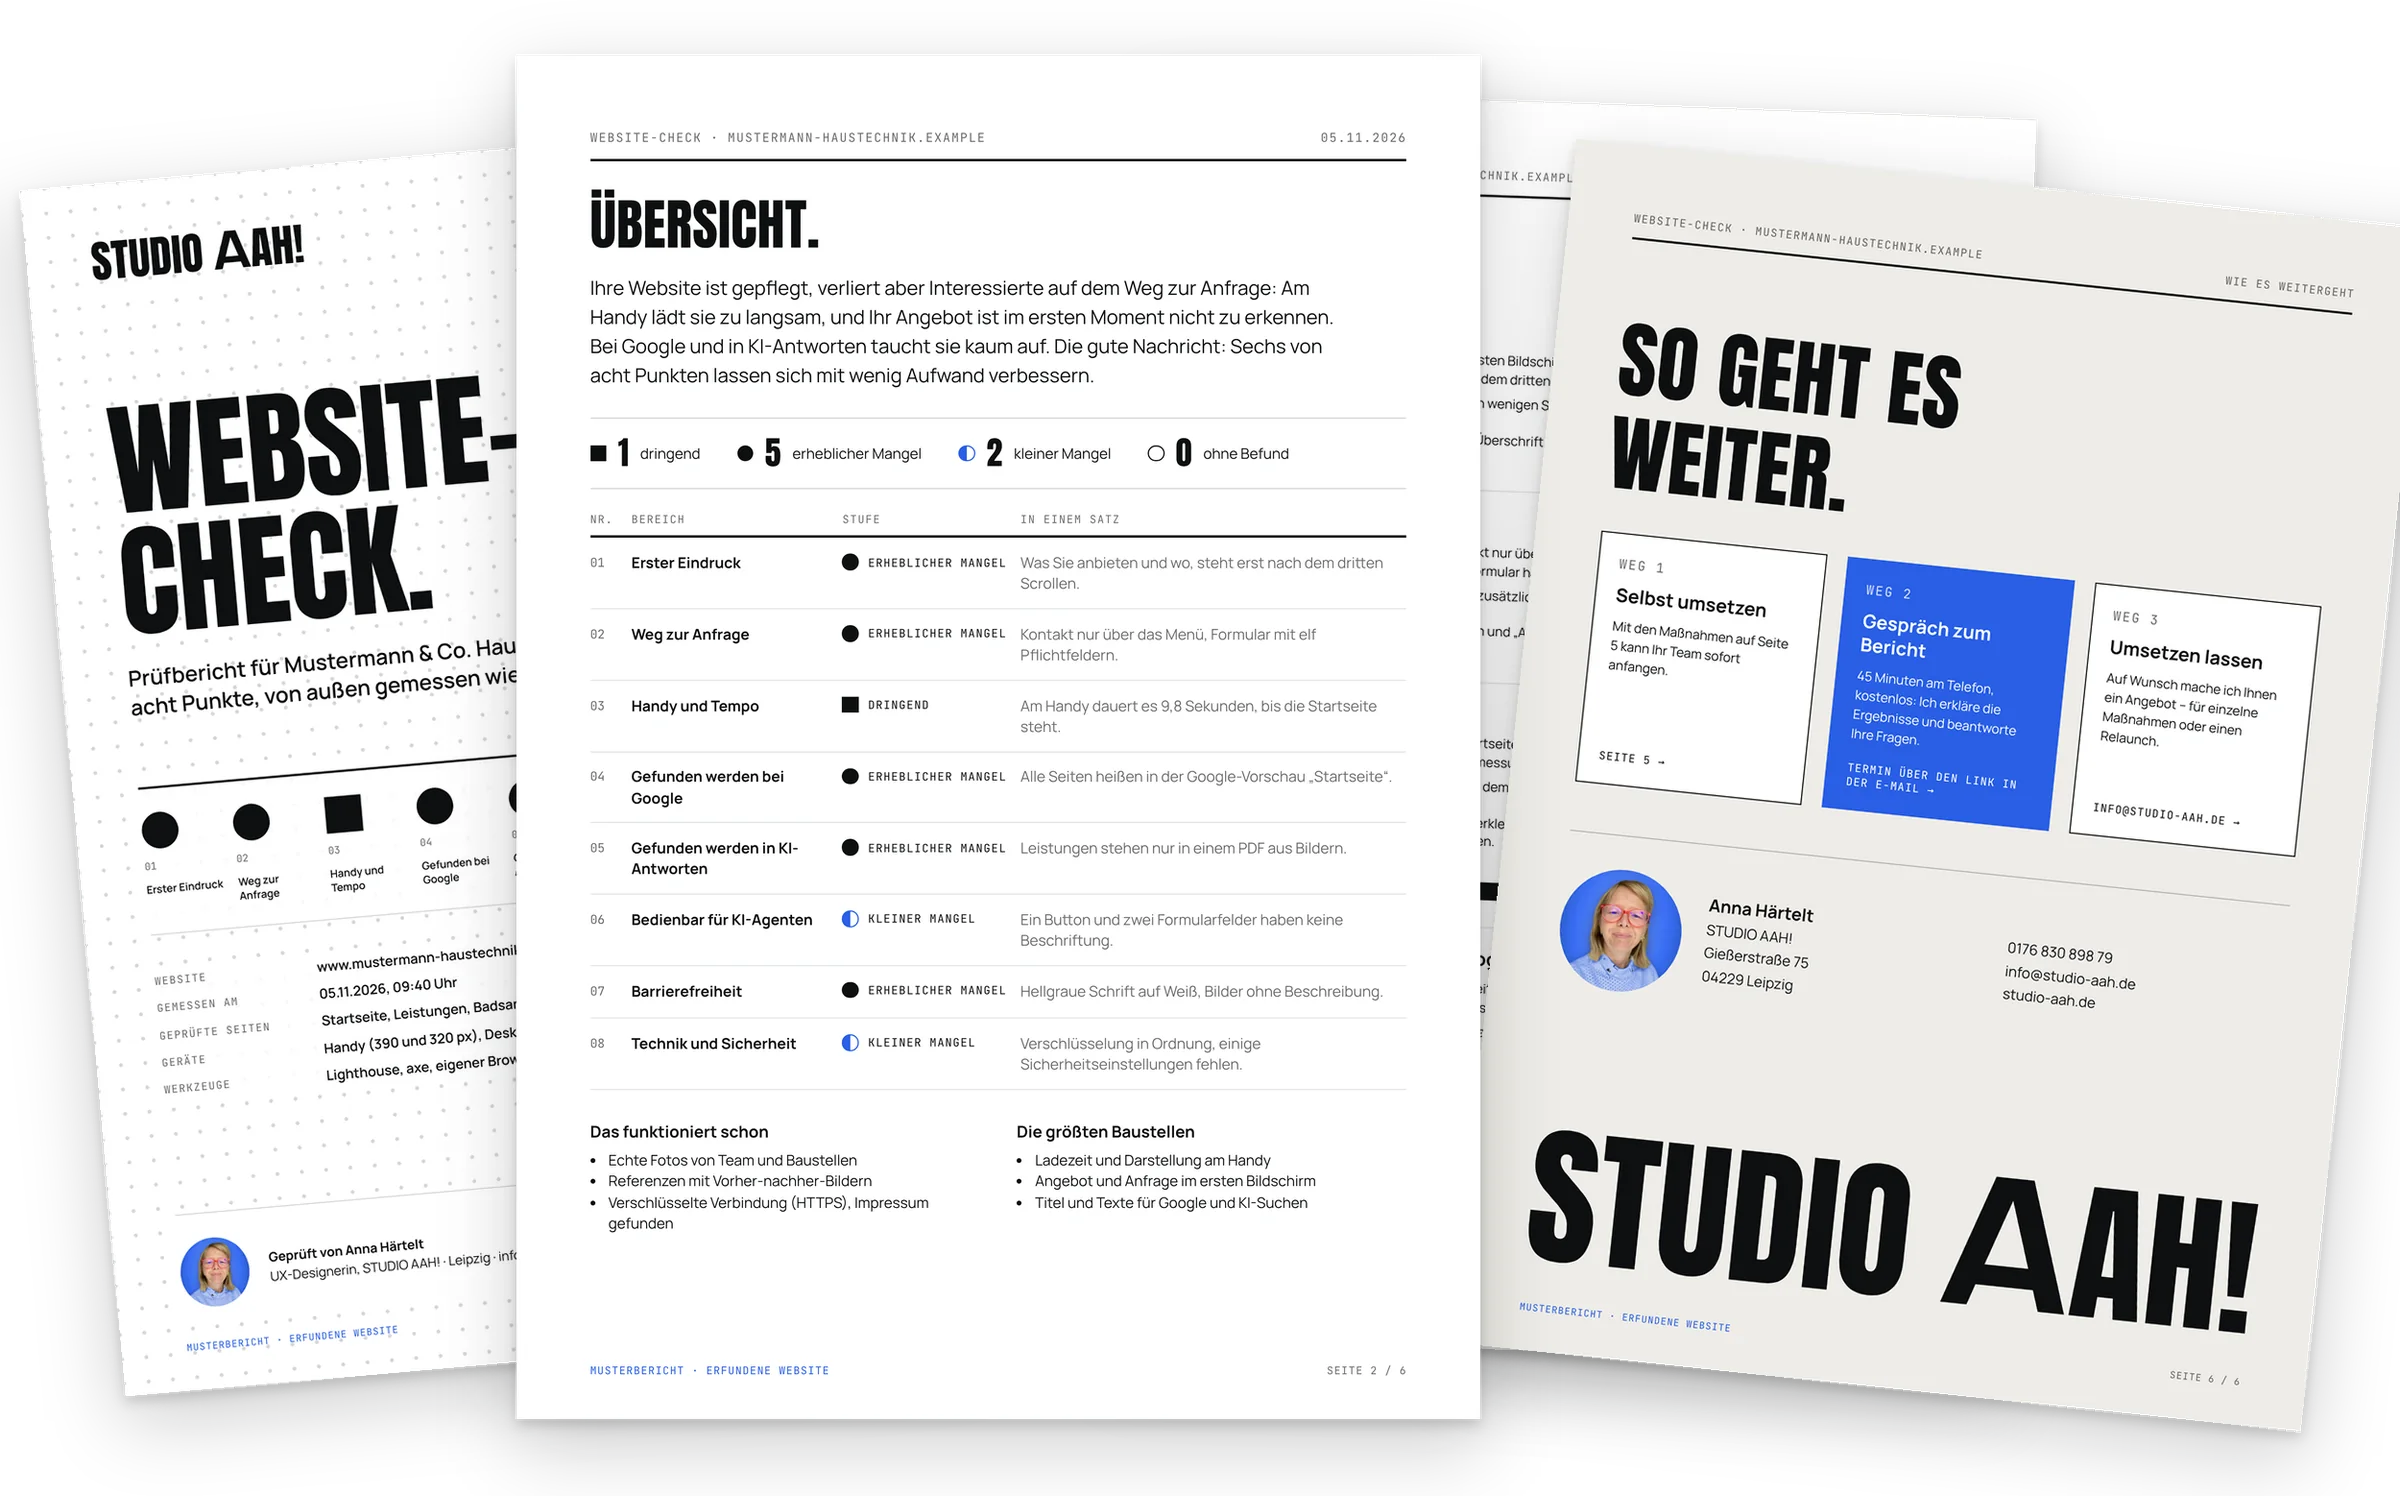
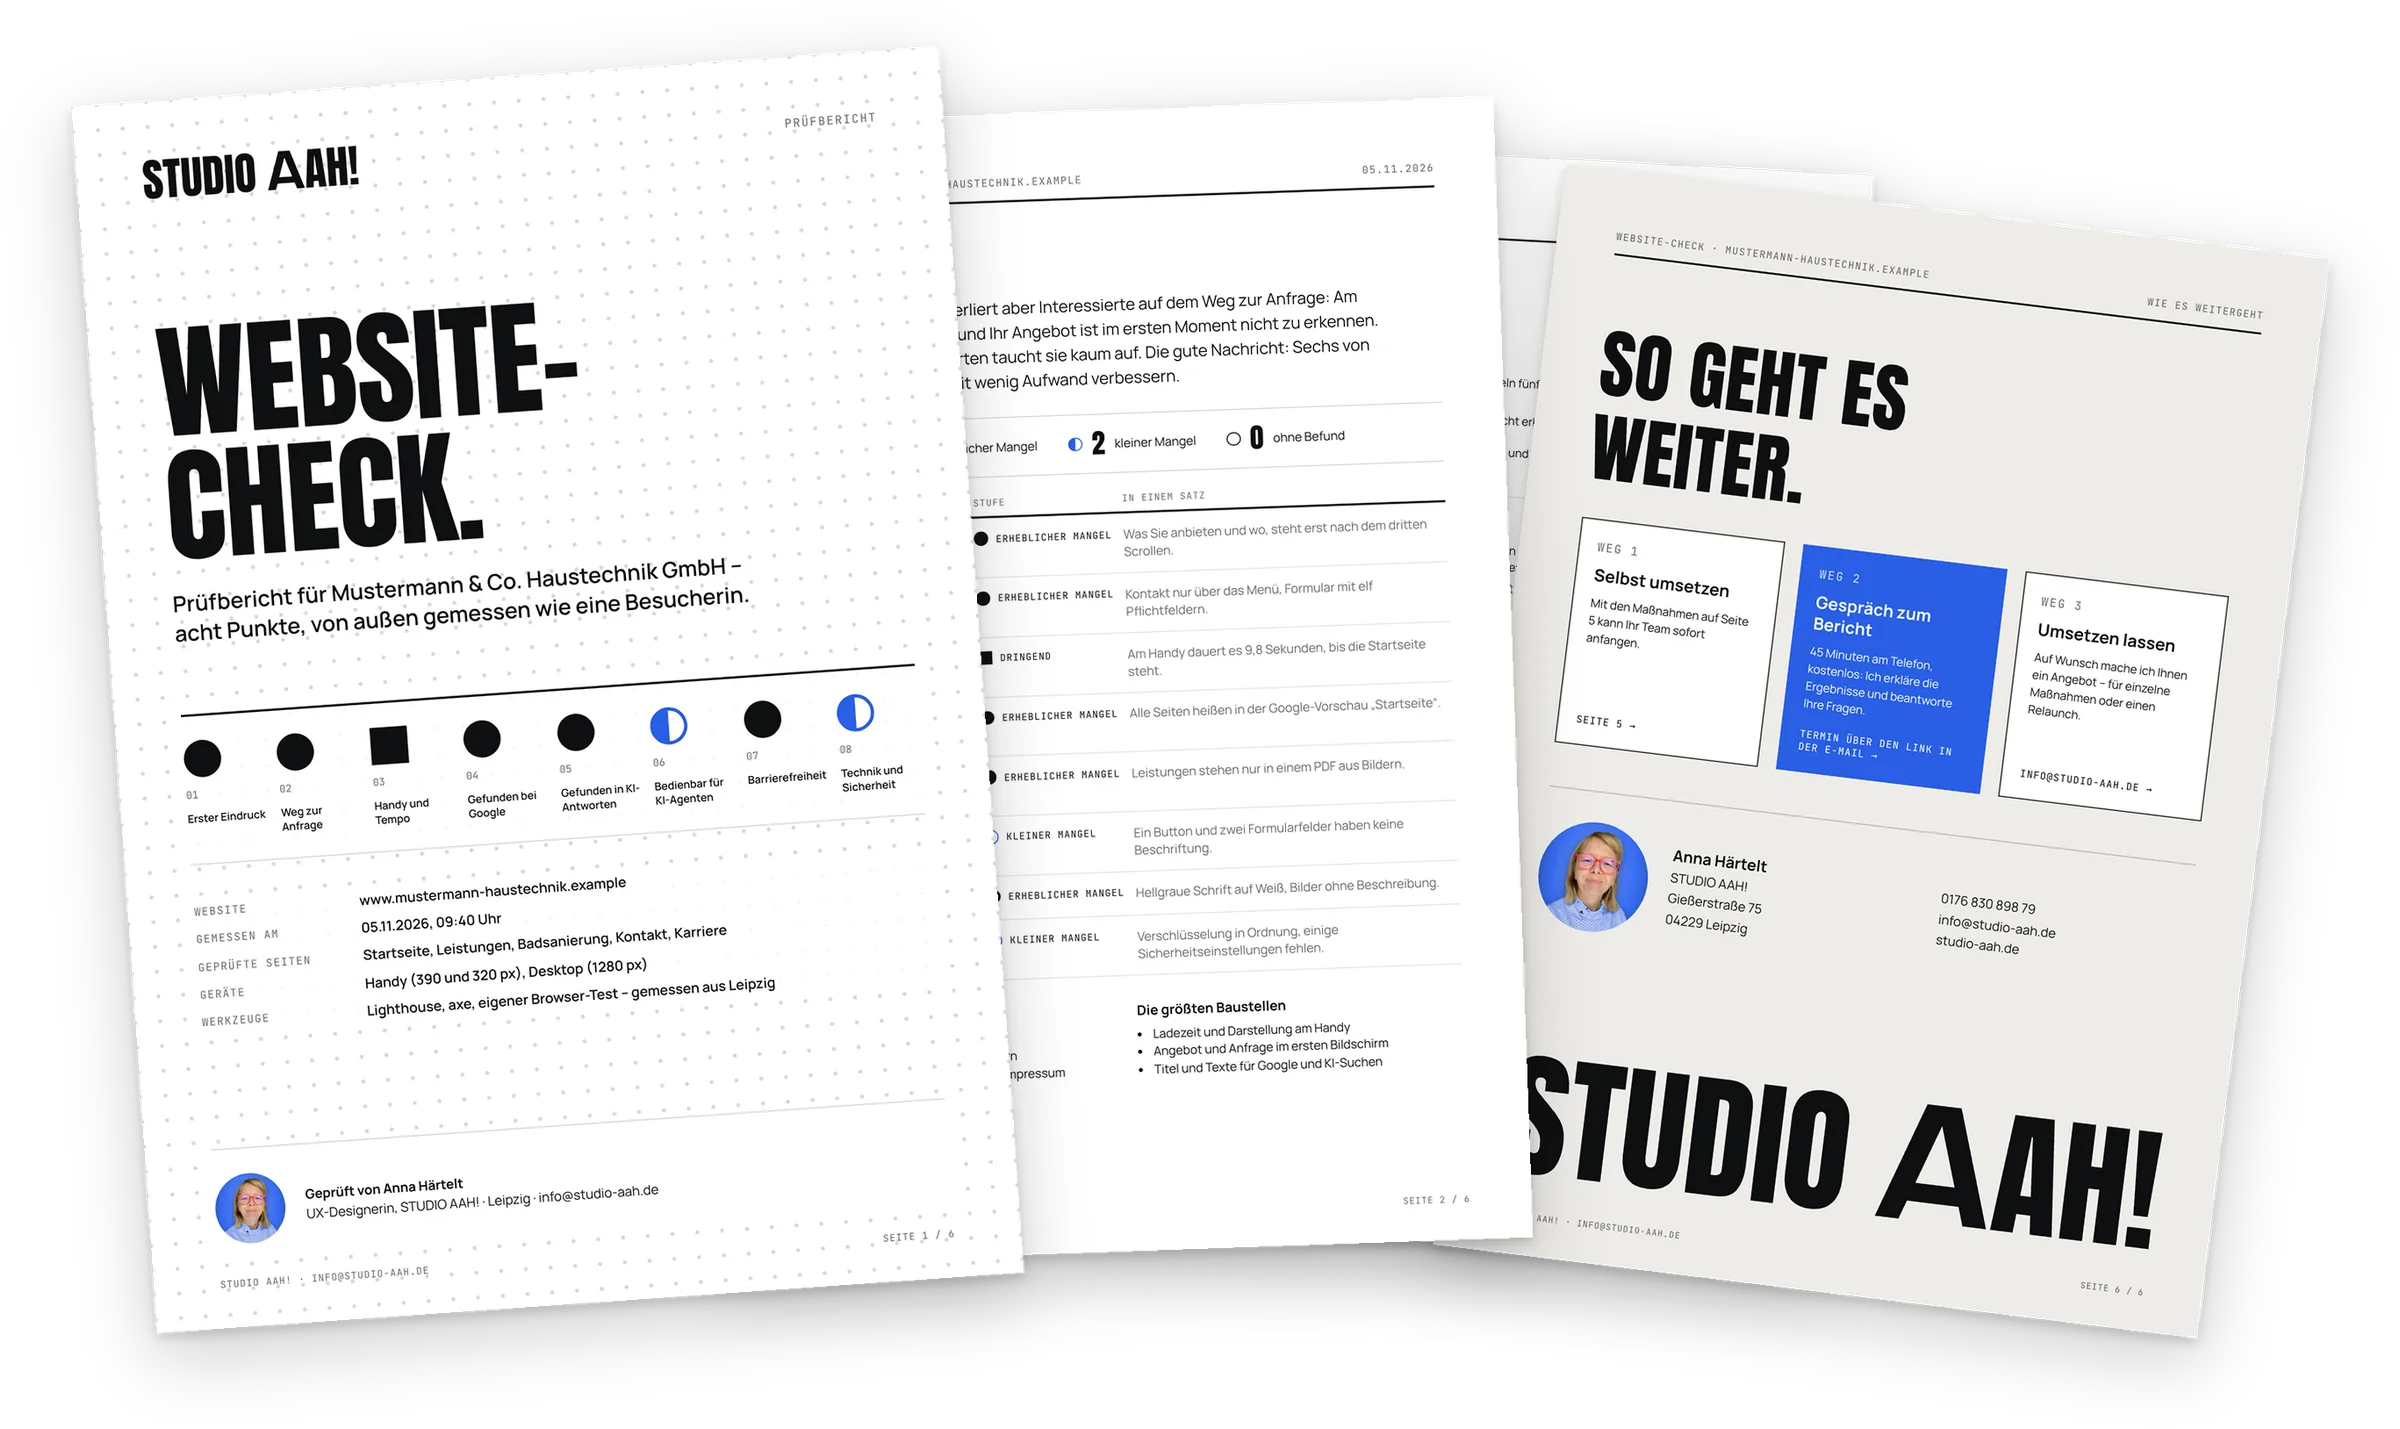
Website-Check: Stufen-Legende raus, Mockup mit Deckblatt oben ohne Anschnitt, keine Hinweise auf erfundene Daten
Claude-Session: https://claude.ai/code/session_01VUP8UqCPz7o58KNSR1u9d5

diff --git a/werkzeuge/grafiken/pruefbericht/musterbericht.html b/werkzeuge/grafiken/pruefbericht/musterbericht.html
@@ -140,7 +140,7 @@ p { margin: 0; }
 <section class="seite deck raster" id="s1">
   <div class="deck-oben">
     <img src="../../../website/bilder/logo-studio-aah.svg" alt="STUDIO AAH!">
-    <p class="meta">Prüfbericht · Muster</p>
+    <p class="meta">Prüfbericht</p>
   </div>
   <h1 class="deck-titel">Website-<br>Check.</h1>
   <p class="deck-unter">Prüfbericht für Mustermann &amp; Co. Haustechnik GmbH – acht Punkte, von außen gemessen wie eine Besucherin.</p>
@@ -165,7 +165,7 @@ p { margin: 0; }
     <img src="../../../website/bilder/anna-haertelt-studio-blau-rund.jpg" alt="">
     <p><strong>Geprüft von Anna Härtelt</strong><br>UX-Designerin, STUDIO AAH! · Leipzig · info@studio-aah.de</p>
   </div>
-  <div class="fuss"><span class="muster">Musterbericht · erfundene Website</span><span>Seite 1 / 6</span></div>
+  <div class="fuss"><span>STUDIO AAH! · info@studio-aah.de</span><span>Seite 1 / 6</span></div>
 </section>
 
 <!-- 2 Übersicht -->
@@ -196,7 +196,7 @@ p { margin: 0; }
     <div><h3>Das funktioniert schon</h3><ul><li>Echte Fotos von Team und Baustellen</li><li>Referenzen mit Vorher-nachher-Bildern</li><li>Verschlüsselte Verbindung (HTTPS), Impressum gefunden</li></ul></div>
     <div><h3>Die größten Baustellen</h3><ul><li>Ladezeit und Darstellung am Handy</li><li>Angebot und Anfrage im ersten Bildschirm</li><li>Titel und Texte für Google und KI-Suchen</li></ul></div>
   </div>
-  <div class="fuss"><span class="muster">Musterbericht · erfundene Website</span><span>Seite 2 / 6</span></div>
+  <div class="fuss"><span>STUDIO AAH! · info@studio-aah.de</span><span>Seite 2 / 6</span></div>
 </section>
 
 <!-- 3 Befunde 1–4 -->
@@ -228,7 +228,7 @@ p { margin: 0; }
     <dt>Was das für Sie bedeutet</dt><dd>Google kann Ihre Seiten kaum unterscheiden. Bei „Badsanierung Leipzig“ erscheinen andere.</dd>
     <dt>Empfehlung</dt><dd>Jede Seite mit eigenem Titel, eigener Beschreibung und einer Hauptüberschrift.</dd>
     <dt>Aufwand</dt><dd class="aufwand">klein</dd></dl></div></article>
-  <div class="fuss"><span class="muster">Musterbericht · erfundene Website</span><span>Seite 3 / 6</span></div>
+  <div class="fuss"><span>STUDIO AAH! · info@studio-aah.de</span><span>Seite 3 / 6</span></div>
 </section>
 
 <!-- 4 Befunde 5–8 -->
@@ -259,7 +259,7 @@ p { margin: 0; }
     <dt>Was das für Sie bedeutet</dt><dd>Kein akutes Warnzeichen. Mit wenigen Einstellungen wird die Seite robuster.</dd>
     <dt>Empfehlung</dt><dd>Die fehlenden Einstellungen bei Ihrem Hosting einschalten lassen.</dd>
     <dt>Aufwand</dt><dd class="aufwand">klein</dd></dl></div></article>
-  <div class="fuss"><span class="muster">Musterbericht · erfundene Website</span><span>Seite 4 / 6</span></div>
+  <div class="fuss"><span>STUDIO AAH! · info@studio-aah.de</span><span>Seite 4 / 6</span></div>
 </section>
 
 <!-- 5 Maßnahmen -->
@@ -276,7 +276,7 @@ p { margin: 0; }
     <div class="kasten creme"><h3>Dafür braucht es Fachleute</h3><ul><li>Ladezeit und Handy-Layout</li><li>Strukturierte Daten für Google und KI</li><li>Startseite neu ordnen: Angebot, Beweise, Anfrage</li></ul></div>
   </div>
   <p class="grenzen"><strong>Was dieser Check ist – und was nicht:</strong> Gemessen wurde von außen, wie eine Besucherin – ohne Zugänge zu Ihrer Website, zur Search Console oder zu Ihrem Google-Profil. Ladezeiten sind Labormessungen mit simuliertem Mittelklasse-Handy. Dieser Bericht enthält technische Befunde und allgemeine Hinweise. Er ist keine Rechtsberatung und ersetzt keine Prüfung durch eine Anwältin. Einige Befunde können rechtliche Fragen berühren. Ob und welche Pflichten für Ihre Website gelten, klärt Ihre Rechtsberatung. Nächster Check empfohlen in zwölf Monaten.</p>
-  <div class="fuss"><span class="muster">Musterbericht · erfundene Website</span><span>Seite 5 / 6</span></div>
+  <div class="fuss"><span>STUDIO AAH! · info@studio-aah.de</span><span>Seite 5 / 6</span></div>
 </section>
 
 <!-- 6 Rückseite -->
@@ -294,7 +294,7 @@ p { margin: 0; }
     <p>0176 830 898 79<br>info@studio-aah.de<br>studio-aah.de</p>
   </div>
   <div class="rueck-logo"><img src="../../../website/bilder/logo-studio-aah.svg" alt="STUDIO AAH!"></div>
-  <div class="fuss"><span class="muster">Musterbericht · erfundene Website</span><span>Seite 6 / 6</span></div>
+  <div class="fuss"><span>STUDIO AAH! · info@studio-aah.de</span><span>Seite 6 / 6</span></div>
 </section>
 
 </body>

diff --git a/website/website-check/index.html b/website/website-check/index.html
@@ -381,18 +381,12 @@
           <li><strong>Auf Wunsch ein Gespräch von 45&nbsp;Minuten am Telefon,</strong> in dem ich Ihnen die Ergebnisse erkläre – den Termin buchen Sie über einen Link in der E-Mail mit dem Bericht</li>
           <li><strong>Kostenlos und unverbindlich</strong></li>
         </ul>
-        <ul class="lp-legende" aria-label="Stufen im Prüfbericht">
-          <li class="lp-stufe lp-stufe-ok">ohne Befund</li>
-          <li class="lp-stufe lp-stufe-klein">kleiner Mangel</li>
-          <li class="lp-stufe lp-stufe-erheblich">erheblicher Mangel</li>
-          <li class="lp-stufe lp-stufe-dringend">dringend</li>
-        </ul>
         <p class="rv-knopf" style="margin-top:32px"><a class="button" href="#anfordern">Website-Check anfordern <span aria-hidden="true">→</span></a></p>
       </div>
     </div>
     <figure class="lp-mockup">
       <img src="../bilder/website-check/pruefbericht-mockup-1200.webp" srcset="../bilder/website-check/pruefbericht-mockup-1200.webp 1200w, ../bilder/website-check/pruefbericht-mockup.webp 2400w" sizes="(min-width: 1200px) 1100px, 100vw" width="2400" height="1496" loading="lazy" alt="Prüfbericht als Mockup mit mehreren Blättern: Deckblatt „Website-Check.“, vorne die Übersicht mit allen acht Punkten und ihrer Stufe, dahinter die Befunde und die Rückseite „So geht es weiter.“ mit drei Wegen und Kontaktdaten.">
-      <figcaption>Musterbericht mit erfundener Website: Deckblatt, Übersicht aller acht Punkte, Befunde, Maßnahmen und Rückseite. <a href="../bilder/website-check/pruefbericht-mockup.webp">Groß ansehen <span aria-hidden="true">→</span></a></figcaption>
+      <figcaption>Deckblatt, Übersicht aller acht Punkte, Befunde, Maßnahmen und „So geht es weiter“. <a href="../bilder/website-check/pruefbericht-mockup.webp">Groß ansehen <span aria-hidden="true">→</span></a></figcaption>
     </figure>
   </section>
 

diff --git a/werkzeuge/grafiken/pruefbericht/mockup.py b/werkzeuge/grafiken/pruefbericht/mockup.py
@@ -6,7 +6,7 @@ Aufruf (vom Repository-Ordner aus, nach rendern.py):
   python3 werkzeuge/grafiken/pruefbericht/mockup.py /tmp/pruefbericht
 
 Ergebnis: website/bilder/website-check/pruefbericht-mockup.webp (transparent, 2400 px breit).
-Vorne die Übersicht mit allen acht Punkten, dahinter Deckblatt, Befunde und Rückseite.
+Oben das Deckblatt, dahinter Übersicht, Befunde und Rückseite; mit Rand, damit nichts angeschnitten ist.
 """
 import pathlib
 import sys
@@ -16,7 +16,7 @@ from PIL import Image, ImageFilter
 QUELLE = pathlib.Path(sys.argv[1] if len(sys.argv) > 1 else "/tmp/pruefbericht")
 REPO = pathlib.Path(__file__).resolve().parents[3]
 ZIEL = REPO / "website/bilder/website-check/pruefbericht-mockup.webp"
-B, H = 2500, 1560
+B, H = 3200, 1800
 
 
 def blatt(nr, hoehe, winkel):
@@ -37,10 +37,10 @@ def legen(leinwand, bild, mitte_x, mitte_y):
 
 
 leinwand = Image.new("RGBA", (B, H), (0, 0, 0, 0))
-legen(leinwand, blatt(3, 1300, -2), 1640, 760)   # Befunde
-legen(leinwand, blatt(6, 1260, -6), 2020, 820)   # Rückseite
-legen(leinwand, blatt(1, 1260, 5), 520, 790)     # Deckblatt
-legen(leinwand, blatt(2, 1420, 0), 1040, 770)    # Übersicht vorne
+legen(leinwand, blatt(3, 1240, -3), 1900, 840)   # Befunde
+legen(leinwand, blatt(6, 1240, -7), 2380, 900)   # Rückseite
+legen(leinwand, blatt(2, 1300, 2), 1500, 820)    # Übersicht
+legen(leinwand, blatt(1, 1400, 4), 860, 830)     # Deckblatt oben drauf
 leinwand = leinwand.crop(leinwand.getbbox())
 if leinwand.width > 2400:
     leinwand = leinwand.resize((2400, round(leinwand.height * 2400 / leinwand.width)), Image.LANCZOS)

diff --git a/CLAUDE.md b/CLAUDE.md
@@ -22,7 +22,7 @@
 - `python3 werkzeuge/referenzen.py` – Projektübersicht und Projektseiten unter `website/referenzen/` aus `werkzeuge/inhalte/projekte.json`; Kopf und Fuß von der Profil- bzw. Webdesign-Seite. Bild-Versionen `?v=` aus dem Dateiinhalt
 - `python3 werkzeuge/grafiken/ci-film.py` – CI-Grafik (`werkzeuge/grafiken/corporate-identity.html`)
 - `python3 werkzeuge/grafiken/druck-mockup.py PFAD/schreibtisch.jpg` – Druck-Mockup (Goldhammer-Visitenkarten auf Schreibtisch); Foto liegt nicht im Repository
-- `python3 werkzeuge/grafiken/pruefbericht/rendern.py /tmp/pruefbericht`, danach `python3 werkzeuge/grafiken/pruefbericht/mockup.py /tmp/pruefbericht` – Musterbericht des Website-Checks (`musterbericht.html`, 6 Seiten: Deckblatt, Übersicht aller 8 Punkte, Befunde, Maßnahmen, Rückseite) als PDF und Papier-Mockup `website/bilder/website-check/pruefbericht-mockup*.webp`. Immer mit erfundener Website, nie mit Annas eigener oder einer echten (Anna, 07.11.2026); PDF nicht ins Repository.
+- `python3 werkzeuge/grafiken/pruefbericht/rendern.py /tmp/pruefbericht`, danach `python3 werkzeuge/grafiken/pruefbericht/mockup.py /tmp/pruefbericht` – Musterbericht des Website-Checks (`musterbericht.html`, 6 Seiten: Deckblatt, Übersicht aller 8 Punkte, Befunde, Maßnahmen, Rückseite) als PDF und Papier-Mockup `website/bilder/website-check/pruefbericht-mockup*.webp`. Immer mit erfundener Website (Platzhalter wie „Mustermann“), nie mit Annas eigener oder einer echten (Anna, 07.11.2026); kein Hinweis wie „erfunden“ oder „Beispiel mit erfundenen Daten“ im Gestalteten (Anna, 07.11.2026: „Das schreibt keiner“); Deckblatt liegt oben, nichts angeschnitten; PDF nicht ins Repository.
 - `python3 werkzeuge/grafiken/fotostudio.py` – Porträts mit blauer Studiowand (Entwurf, Schwarz-Weiß-Vorlagen)
 - `bash werkzeuge/grafiken/bild/varianten.sh` – kleine Fassungen der langen Seitenaufnahmen (`<bild>-<breite>.webp`, bei Bedarf `.jpg`) für Projektkarten und Hero-Leiste; `bild_attr()` in `gemeinsam.py` baut daraus `srcset`. Braucht `sips` (macOS) und `cwebp` (libwebp von Google, liegt auf dem MacBook in `~/bin`). Danach alle Generatoren laufen lassen.
 - Erzeugte Bereiche nie direkt in `website/` ändern, sondern in der Quelle, dann neu erzeugen.
